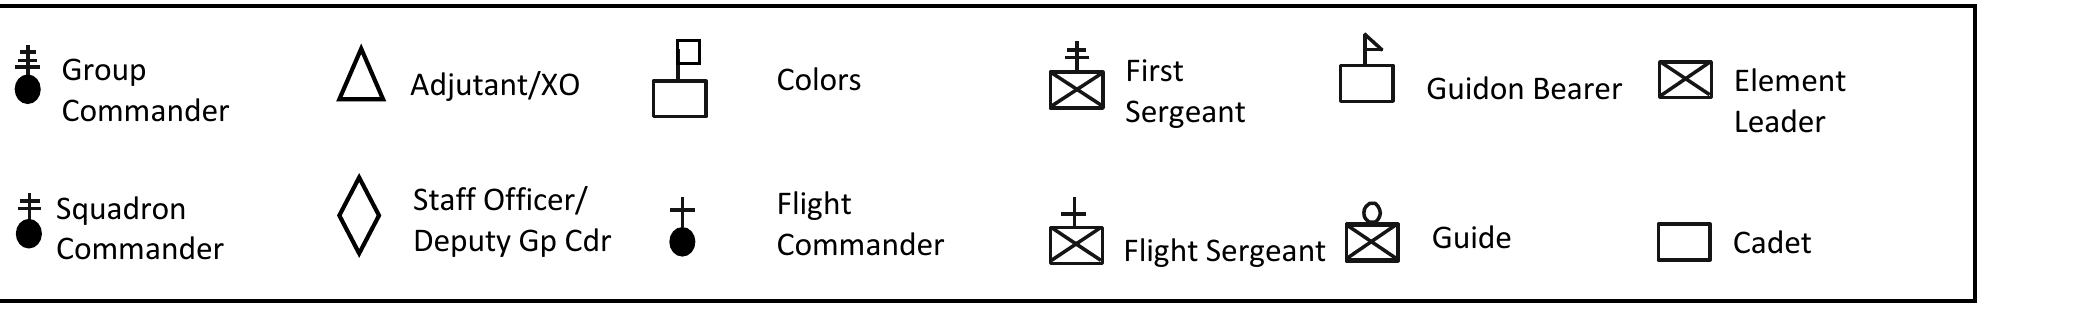
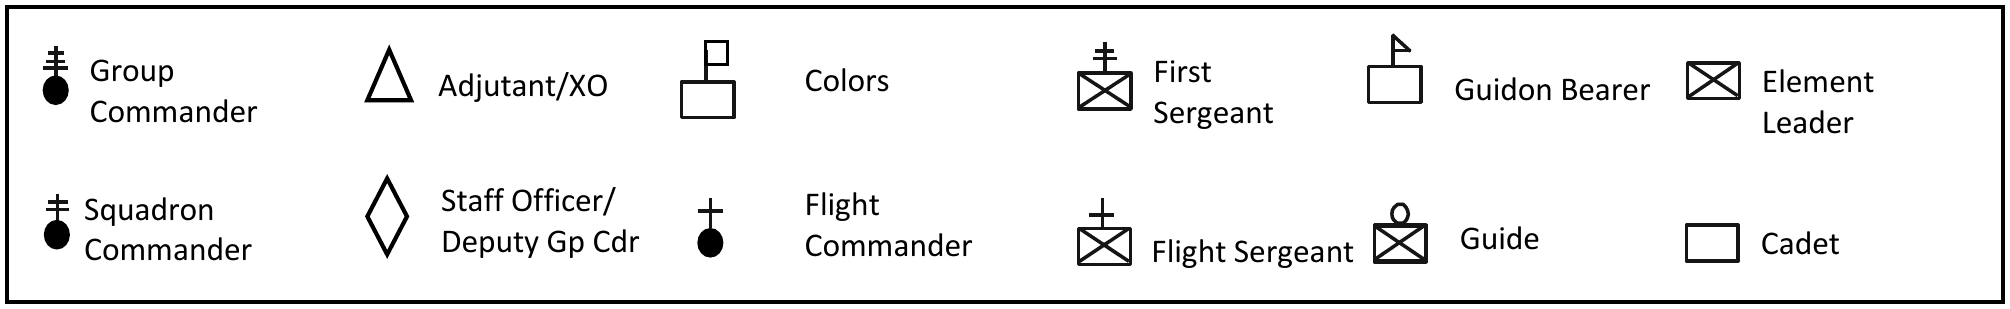
drill-test: guide figures without the extra border; Clear checklist
- Symbols key re-cut so its own frame is complete on all four sides.
- Removed the app's light border around every diagram (double border).
- 'Start over' renamed 'Clear checklist'; disabled until a step is ticked.

Claude-Session: https://claude.ai/code/session_01519eEKVL81dqXVdAU4mopz

diff --git a/tools/drill-test/src/index.css b/tools/drill-test/src/index.css
@@ -113,7 +113,7 @@ label.fb { margin-top: 12px; }
 details.keys { margin-top: 12px; border: 1px solid var(--cap-silver); border-radius: 4px; padding: 10px 12px; }
 details.keys summary { font-weight: 700; color: var(--cap-ultramarine); cursor: pointer; min-height: 28px; }
 details.keys figure { margin-top: 12px; }
-.keyimg { display: block; width: 100%; padding: 0; background: #FFFFFF; border: 1px solid var(--rule); min-height: 0; cursor: zoom-in; }
+.keyimg { display: block; width: 100%; padding: 0; background: #FFFFFF; border: 0; min-height: 0; cursor: zoom-in; }
 .keyimg img, .zoomarea img { display: block; width: 100%; height: auto; }
 figcaption { font-size: 9pt; margin-top: 4px; }
 .zoom { position: fixed; inset: 0; z-index: 20; background: #FFFFFF; display: flex; flex-direction: column; }

diff --git a/tools/drill-test/src/App.tsx b/tools/drill-test/src/App.tsx
@@ -432,7 +432,7 @@ export default function App() {
             ))}
           </ol>
           <p className="hint">{Object.values(doneSteps).filter(Boolean).length} of {guide.steps.length} steps done.</p>
-          <button className="btn-secondary wide" onClick={() => { setDoneSteps({}); window.scrollTo(0, 0); }}>Start over</button>
+          <button className="btn-secondary wide" disabled={!Object.values(doneSteps).some(Boolean)} onClick={() => setDoneSteps({})}>Clear checklist</button>
 
           <h3 className="sec">Watch for</h3>
           <ul className="watch">{guide.watch.map((w, i) => <li key={i}>{w.text} <span className="cite">{w.ref}</span></li>)}</ul>
